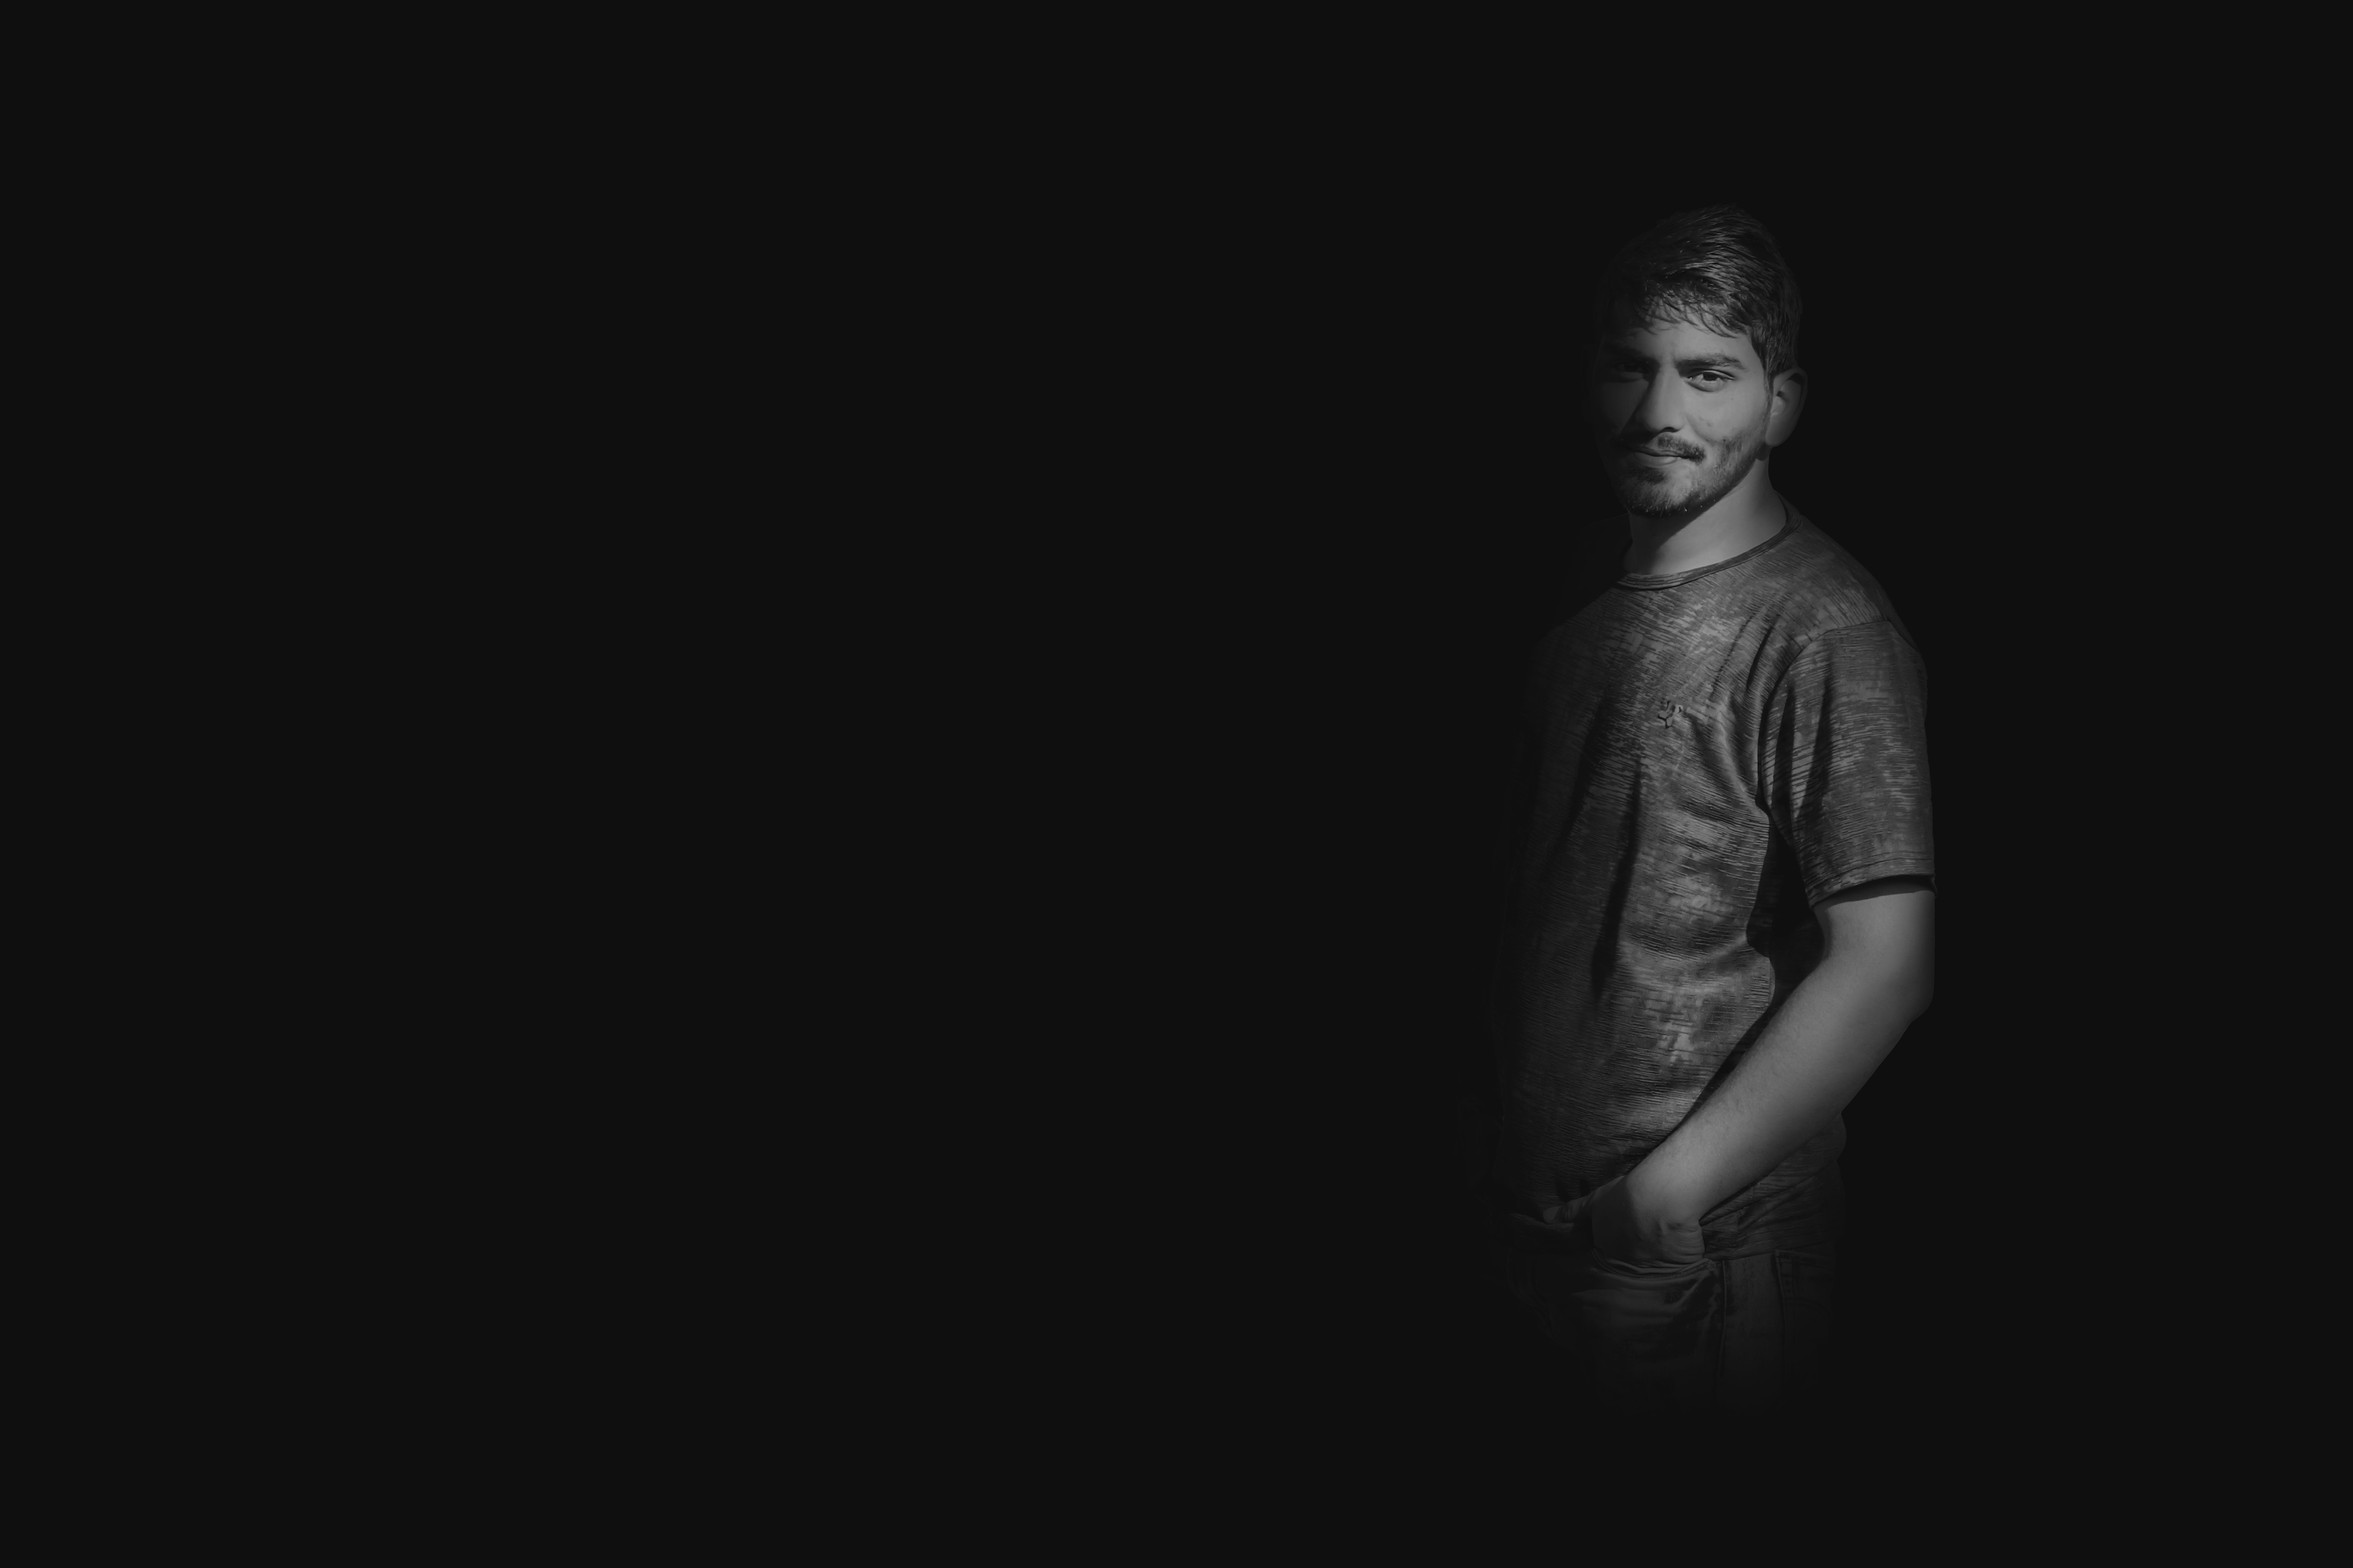
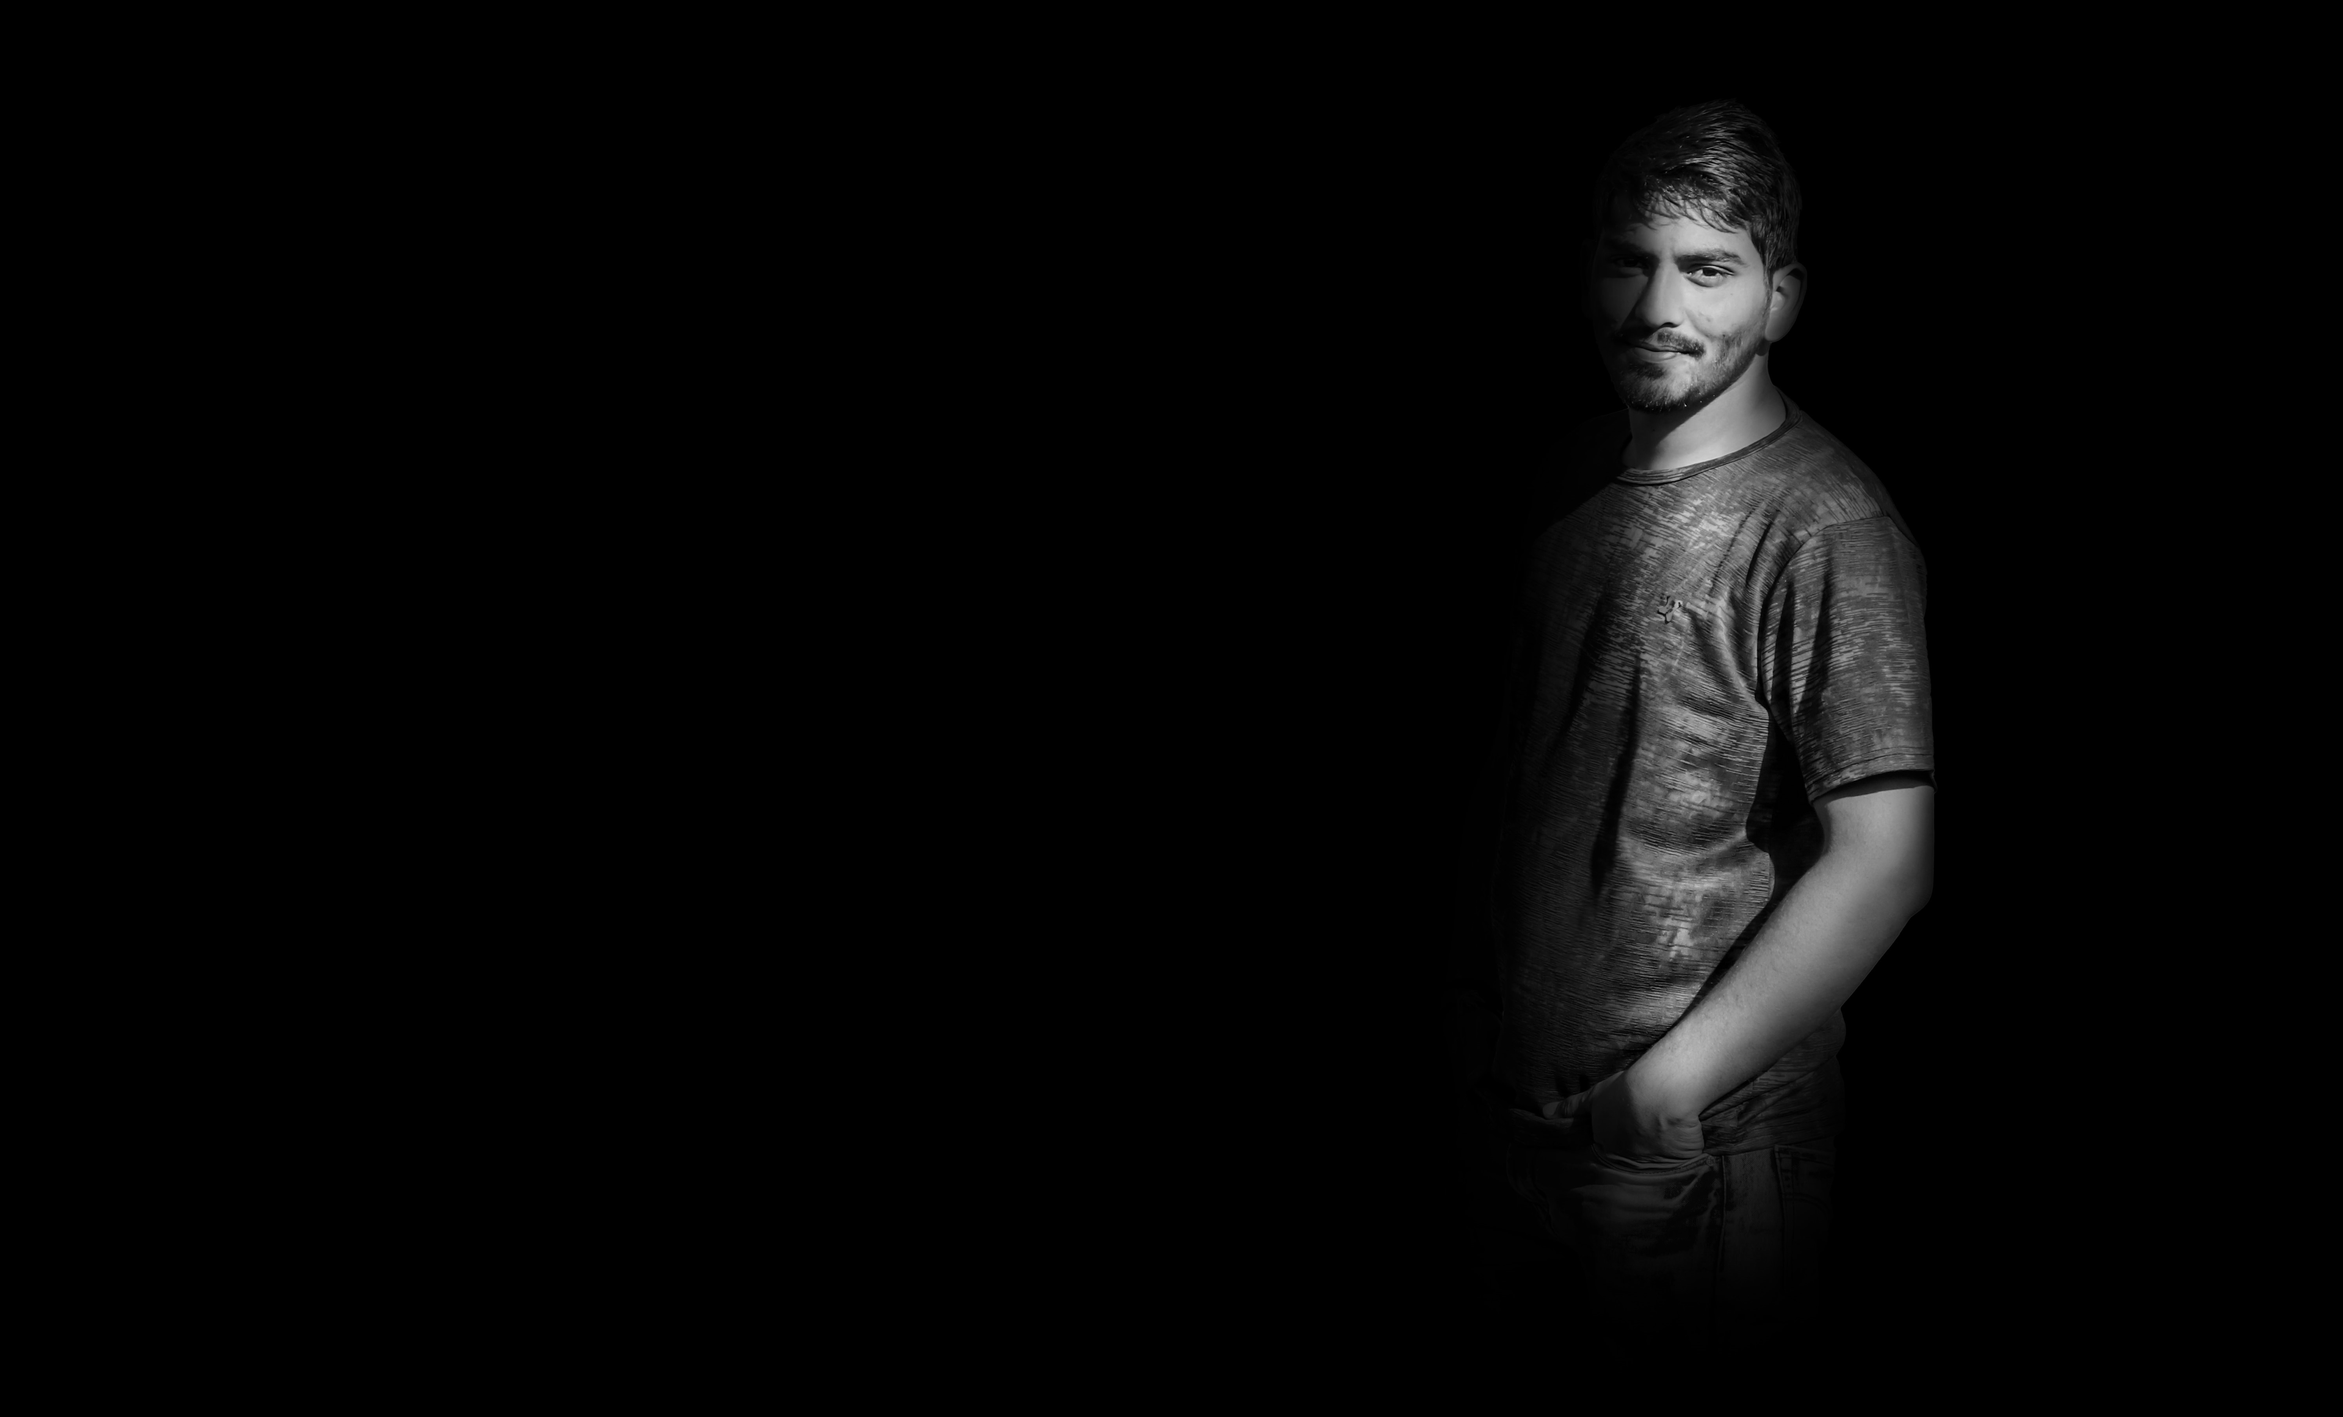
Update

Changed region(s): [[0.6536, 0.0929, 0.8404, 0.8365]]

diff --git a/index.html b/index.html
@@ -17,7 +17,7 @@
      <link rel="stylesheet" href="style.css">
      
      
-    <title>Jaydeep</title>
+    <title>Jayzz</title>
   </head>
   <body data-spy="scroll" data-target="#navbarResponsive">
 <div id="home">
@@ -52,7 +52,7 @@
 </div>
   
 <!--  Background----------------------->
-    <div>
+    <div id="bg">
         <img src="bg.jpg" class="img-fluid bgimg">
     </div>
     
@@ -60,7 +60,7 @@
       <h5> Hey there!!!</h5>  
       <h1>Jaydeep </h1>
       <h5>here.!</h5>
-      <p>A FRONT-END DEVELOPER.</p>
+      <p>A FULL-STACK DEVELOPER.</p>
   </div>
   
 <!--  About----------------------------------------->
@@ -72,25 +72,26 @@
       </div>
        <div class="row">
            <div class="col-lg-6 col-md-6 col-12">
-              <img src="mypic1.jpg" class="img-fluid"> 
+              <img src="Mypic.jpg" class="img-fluid"> 
                
            </div>
             <div class="col-lg-6 col-md-6 col-12">
             <h2>Wanna Know Me??</h2>           
            <hr>
-           <p>I’m <strong> Jaydeep</strong>! A 22 year old hard working and dedicated <strong> front-end developer</strong> and <strong> user interface designer </strong> with a determination to deliver the very highest quality. Also pursuing <strong> MCA</strong> from <strong> Birla Institute of Technology, Mesra, Ranchi</strong>. I take great pride in my work, and I always try to better myself with every project I work on.<br>
+           <p>I’m <strong> Jaydeep</strong>! A 22 year old hard working and dedicated <strong> Full-Stack developer</strong> and <strong> user interface designer </strong> with a determination to deliver the very highest quality. Also pursuing <strong> MCA</strong> from <strong> Birla Institute of Technology, Mesra, Ranchi</strong>. I take great pride in my work, and I always try to better myself with every project I work on.<br>
 
            I like to write semantic, cross browser compatible code by hand that is re-useable, maintainable and easy to understand.<br>
 
             I am motivated, enthusiastic and well organised, with a keen eye for beautiful design, primarily based around user interfaces.<br>
 
-            The main areas of my expertise are HTML(5), CSS(3) and JavaScript (native and jQuery) but I have intermediate knowledge of PHP and MySQL. <br>
+            The main areas of my expertise are HTML(5), CSS(3), JavaScript (native and jQuery) and Bootstrap but I have intermediate knowledge of NodeJs, Express, MongoDB and MySQL. And Also like to code in C++ for problem solving.<br>
+            
 
              I am comfortable working under pressure to complex specifications.
            </p>
            
            <button class="btn w-50">
-               <a href="https://drive.google.com/file/d/1dJ_bGu1ok1HEMo7Lu3-QP9af6vrZDOB9/view?usp=sharing" target="_blank"> Download CV</a>
+               <a href="https://drive.google.com/file/d/1H3heFnFroNfV3vC35fWLNQgsAtvOQ6RZ/view?usp=sharing" target="_blank"> Download CV</a>
            </button>
        </div>
       
@@ -110,7 +111,51 @@
       </div>
   
       <div class="row">
-          <div class="col-lg-4 col-md-6 col-12 pb-5">
+
+        <div class="col-lg-4 col-md-6 col-12 pb-5">
+          <div class="card">
+<img src="rnd.jpg" class="card-img-top" alt="image">
+<div class="card-body">
+ <h5 class="card-title">Recent & Decent</h5>
+ <p class="card-text">An E-Commerce web app. Recent & Decent offers a variety of solutions for both buyers and sellers that physical stores just simply can’t. </p>
+ <h6 class="langtxt">⁕HTML⁕CSS⁕JAVASCRIPT⁕JQUERY⁕BOOTSTRAP⁕NODEJS⁕EXPRESS⁕MONGODB</h6>
+ <a href="https://jayzz-recentndecent.herokuapp.com/" target="_blank" class="btn btn-primary clockbtn">Live Preview</a>
+</div>
+ </div>
+           
+</div>
+
+
+<div class="col-lg-4 col-md-6 col-12 pb-5">
+  <div class="card">
+<img src="chat.jpg" class="card-img-top" alt="image">
+<div class="card-body">
+<h5 class="card-title">Chit- Chat</h5>
+<p class="card-text">A Chat Web-app which provides real-time event based communication in a group using <strong>Socket.io</strong> library. </p>
+<h6 class="langtxt">⁕HTML⁕CSS⁕JAVASCRIPT</h6>
+<a href="https://chit-chaatt.herokuapp.com/" target="_blank" class="btn btn-primary clockbtn">Live Preview</a>
+</div>
+</div>
+   
+</div>
+
+
+
+<div class="col-lg-4 col-md-6 col-12 pb-5">
+  <div class="card">
+<img src="weather.jpg" class="card-img-top" alt="image">
+<div class="card-body">
+<h5 class="card-title">Weather Web-App</h5>
+<p class="card-text">This Web-App provides you all the information related to the weather of a perticular city. Which is Based on <strong>Openweather API.</strong> </p>
+<h6 class="langtxt">⁕HTML⁕CSS⁕JAVASCRIPT</h6>
+<a href="https://jayyuuuu.github.io/Weather-app/" target="_blank" class="btn btn-primary clockbtn">Live Preview</a>
+</div>
+</div>
+   
+</div>
+
+
+  <div class="col-lg-4 col-md-6 col-12 pb-5">
              <div class="card">
   <img src="proj1.jpg" class="card-img-top" alt="image">
   <div class="card-body">
@@ -148,6 +193,10 @@
     </div>
               
   </div>
+
+
+
+
       </div>
       </div>
     
@@ -163,11 +212,11 @@
        <div class="row">
            <div class="col-lg-6 col-md-6 col-12">
              <div>
-              <img src="skill.jpg" class="card-img-top" alt="image"> 
+              <img src="skills.jpg" class="card-img-top" alt="image"> 
                </div>
            </div>
             <div class="col-lg-6 col-md-6 col-12">
-             <h5>HTML</h5> 
+             <h5 class="mt-3">HTML</h5> 
              <div class="progress">
             <div class="progress-bar" role="progressbar" style="width: 85%;" aria-valuenow="25" aria-valuemin="0" aria-valuemax="100">85%</div>
         </div>
@@ -175,12 +224,38 @@
           <div class="progress-bar" role="progressbar" style="width: 75%;" aria-valuenow="25" aria-valuemin="0" aria-valuemax="100">75%</div>
         </div>
           <h5 class="mt-5">JAVASCRIPT</h5> <div class="progress">
-          <div class="progress-bar" role="progressbar" style="width: 65%;"  aria-valuenow="25" aria-valuemin="0" aria-valuemax="100">65%</div>
+          <div class="progress-bar" role="progressbar" style="width: 60%;"  aria-valuenow="25" aria-valuemin="0" aria-valuemax="100">60%</div>
         </div>
            <h5 class="mt-5">BOOTSTRAP</h5> <div class="progress">
-          <div class="progress-bar" role="progressbar" style="width: 70%;"  aria-valuenow="25" aria-valuemin="0" aria-valuemax="100">70%</div>
+          <div class="progress-bar" role="progressbar" style="width: 80%;"  aria-valuenow="25" aria-valuemin="0" aria-valuemax="100">80%</div>
         </div>
            
+        <h5 class="mt-5">NODEJS</h5> <div class="progress">
+          <div class="progress-bar" role="progressbar" style="width: 60%;"  aria-valuenow="25" aria-valuemin="0" aria-valuemax="100">60%</div>
+        </div>    
+        
+        <h5 class="mt-5">MONGODB</h5> <div class="progress">
+          <div class="progress-bar" role="progressbar" style="width: 65%;"  aria-valuenow="25" aria-valuemin="0" aria-valuemax="100">65%</div>
+        </div>  
+
+        <h5 class="mt-5">MYSQL</h5> <div class="progress">
+          <div class="progress-bar" role="progressbar" style="width: 70%;"  aria-valuenow="25" aria-valuemin="0" aria-valuemax="100">70%</div>
+        </div>  
+
+        <h5 class="mt-5">C</h5> <div class="progress">
+          <div class="progress-bar" role="progressbar" style="width: 60%;"  aria-valuenow="25" aria-valuemin="0" aria-valuemax="100">60%</div>
+        </div>  
+
+        <h5 class="mt-5">C++</h5> <div class="progress">
+          <div class="progress-bar" role="progressbar" style="width: 85%;"  aria-valuenow="25" aria-valuemin="0" aria-valuemax="100">85%</div>
+        </div>  
+
+        <h5 class="mt-5">JAVA</h5> <div class="progress">
+          <div class="progress-bar" role="progressbar" style="width: 50%;"  aria-valuenow="25" aria-valuemin="0" aria-valuemax="100">50%</div>
+        </div>  
+ 
+
+
        </div>
       
       
@@ -188,6 +263,116 @@
   </div>
 </div>
   
+
+<!-- certification----------------------- -->
+<!-- <div id="certi" class="offset container mt-5 pb-5">
+  <div class="post-heading text-center">
+       <h3 class="display-4 font-weight-bold">Certification</h3>
+       <hr class="w-50 mx-auto pb-5">
+ </div>
+
+ <div class="row">
+
+
+
+  <div class="col-lg-4 col-md-6 col-12 pb-5">
+    <div class="card">
+  <img src="Microsoft .png" class="card-img-top" alt="image">
+  <div class="card-body">
+  <h6 class="card-title center">Microsoft-forage</h6>
+  </div>
+  </div>
+     
+  </div>
+
+
+   <div class="col-lg-4 col-md-6 col-12 pb-5">
+     <div class="card">
+<img src="jp morgan.png" class="card-img-top" alt="image">
+<div class="card-body">
+<h6 class="card-title center">JPMorgan Chase & Co.</h6>
+</div>
+</div>   
+</div>
+
+
+<div class="col-lg-4 col-md-6 col-12 pb-5">
+  <div class="card">
+<img src="progate .png" class="card-img-top" alt="image">
+<div class="card-body">
+<h6 class="card-title center">Progate JAVA</h6>
+</div>
+</div>   
+</div>
+
+<div class="col-lg-4 col-md-6 col-12 pb-5">
+  <div class="card">
+<img src="download.png" class="card-img-top" alt="image">
+<div class="card-body">
+<h6 class="card-title center">Hackerrank JAVA </h6>
+</div>
+</div>   
+</div>
+
+<div class="col-lg-4 col-md-6 col-12 pb-5">
+  <div class="card">
+<img src="web certificate 1 of 1.png" class="card-img-top" alt="image">
+<div class="card-body">
+<h6 class="card-title center">Web Develpment</h6>
+</div>
+</div>   
+</div>
+
+<div class="col-lg-4 col-md-6 col-12 pb-5">
+  <div class="card">
+<img src="Udemy html css.jpg" class="card-img-top" alt="image">
+<div class="card-body">
+<h6 class="card-title center">HTML-CSS</h6>
+</div>
+</div>   
+</div>
+
+<div class="col-lg-4 col-md-6 col-12 pb-5">
+  <div class="card">
+<img src="CSS Bootstrap.jpg" class="card-img-top" alt="image">
+<div class="card-body">
+<h6 class="card-title center">Bootstrap</h6>
+</div>
+</div>   
+</div>
+
+
+
+
+
+<div class="col-lg-4 col-md-6 col-12 pb-5">
+  <div class="card">
+<img src="COP1.png" class="card-img-top" alt="image">
+<div class="card-body">
+<h6 class="card-title center">COP</h6>
+</div>
+</div>
+   
+</div>
+
+
+
+<div class="col-lg-4 col-md-6 col-12 pb-5">
+  <div class="card">
+<img src="Eko Certificate.jpg" class="card-img-top" alt="image">
+<div class="card-body">
+<h6 class="card-title center">Internship Eko</h6>
+</div>
+</div>
+
+
+
+</div>
+</div>
+
+
+ -->
+
   
   
 <!--  Contact------------------------------------->
@@ -235,7 +420,7 @@
       ></a>
 
       <!-- Twitter -->
-      <a class="btn btn-outline-light btn-floating m-1" href="https://twitter.com/i_Adeveloper"  target="_blank" role="button"
+      <a class="btn btn-outline-light btn-floating m-1" href="https://twitter.com/A_saffronist"  target="_blank" role="button"
         ><i class="fab fa-twitter"></i
       ></a>
 
@@ -245,7 +430,7 @@
       ></a>
 
       <!-- Instagram -->
-      <a class="btn btn-outline-light btn-floating m-1" href="https://www.instagram.com/nuckking_futzz/"  target="_blank" role="button"
+      <a class="btn btn-outline-light btn-floating m-1" href="https://www.instagram.com/jayzz.here/"  target="_blank" role="button"
         ><i class="fab fa-instagram"></i
       ></a>
 
@@ -340,7 +525,7 @@
   <!-- Copyright -->
   <div class="text-center p-3" style="background-color: rgba(0, 0, 0, 0.2);">
     © 2021 Copyright:
-    <a class="text-white" href="mailto:mca10051.19@bitmesra.ac.in">jaydeepkumawat</a>
+    <a class="text-white" href="mailto:mca10051.19@bitmesra.ac.in">jaykumawat</a>
   </div>
   <!-- Copyright -->
 </footer>

diff --git a/style.css b/style.css
@@ -25,7 +25,6 @@ hr{
     margin-top: 20px;
 }
 
-
 /*
 .card{
    box-shadow: 0 10px 20px rgba(0, 0, 0, 0.19), 0 6px 6px rgba(0, 0, 0, 0.23);
@@ -36,6 +35,7 @@ hr{
         margin-top: 40px;
         font-size: 12px;
         font-family: 'Aladin', cursive;
+
 }
 .langtxtmid{
     font-size: 12px;
@@ -45,6 +45,7 @@ hr{
 #projects div img{
     width: 100%;
     height: 45vh;
+
 }
 
 .card-title{
@@ -56,6 +57,7 @@ hr{
 .navbar{
 /*    color: #fff;*/
     text-transform: uppercase;
+    top: 0px;
     font-size: 14px;
     font-weight: 700;
     letter-spacing: 0.2rem;
@@ -80,7 +82,9 @@ hr{
 .heading{
     position: absolute;
     max-width: 100%;
-    top: 40%;
+    top: 33%;
+    /* border: 2px solid red; */
+    /* padding-right: 150px; */
     width: 100%;
     color: #fff;
 }
@@ -174,11 +178,13 @@ hr{
      word-spacing: 3px;
     letter-spacing: 1px;
     line-height: 200%;
+
 }
 #about h2{
     font-family: 'Great Vibes', cursive;
     font-weight: bold;
     padding-top: 1%;
+
 
 }
 
@@ -189,7 +195,9 @@ h3{
     font-weight: bold;
 }
 #skills h5{
-    margin-top: 25px;
+    /* margin-top: 10px; */
+    padding: 0px;
+    /* border: 2px solid red; */
      font-family: 'Aladin', cursive;
     font-weight: bold;
 
